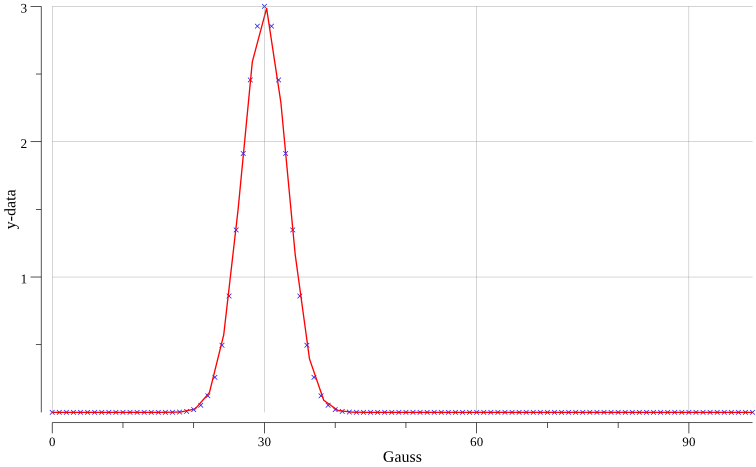
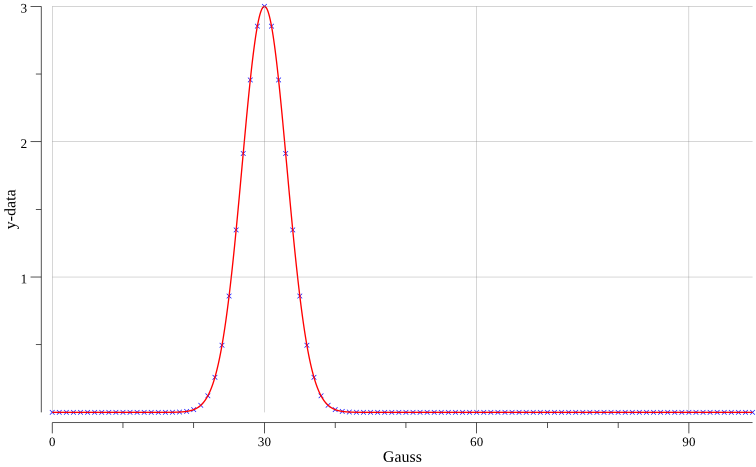
fit: smooth gauss function display

diff --git a/fit_curve1d_test.go b/fit_curve1d_test.go
@@ -78,6 +78,7 @@ func ExampleCurve1D_gaussian(t *testing.T) {
 			return gauss(x, res.X[0], res.X[1], res.X[2])
 		})
 		f.Color = color.RGBA{255, 0, 0, 255}
+		f.Samples = 1000
 		p.Add(f)
 
 		p.Add(plotter.NewGrid())

diff --git a/README.md b/README.md
@@ -62,6 +62,7 @@ func ExampleCurve1D_gaussian(t *testing.T) {
 			return gauss(x, res.X[0], res.X[1], res.X[2])
 		})
 		f.Color = color.RGBA{255, 0, 0, 255}
+		f.Samples = 1000
 		p.Add(f)
 
 		p.Add(plotter.NewGrid())
